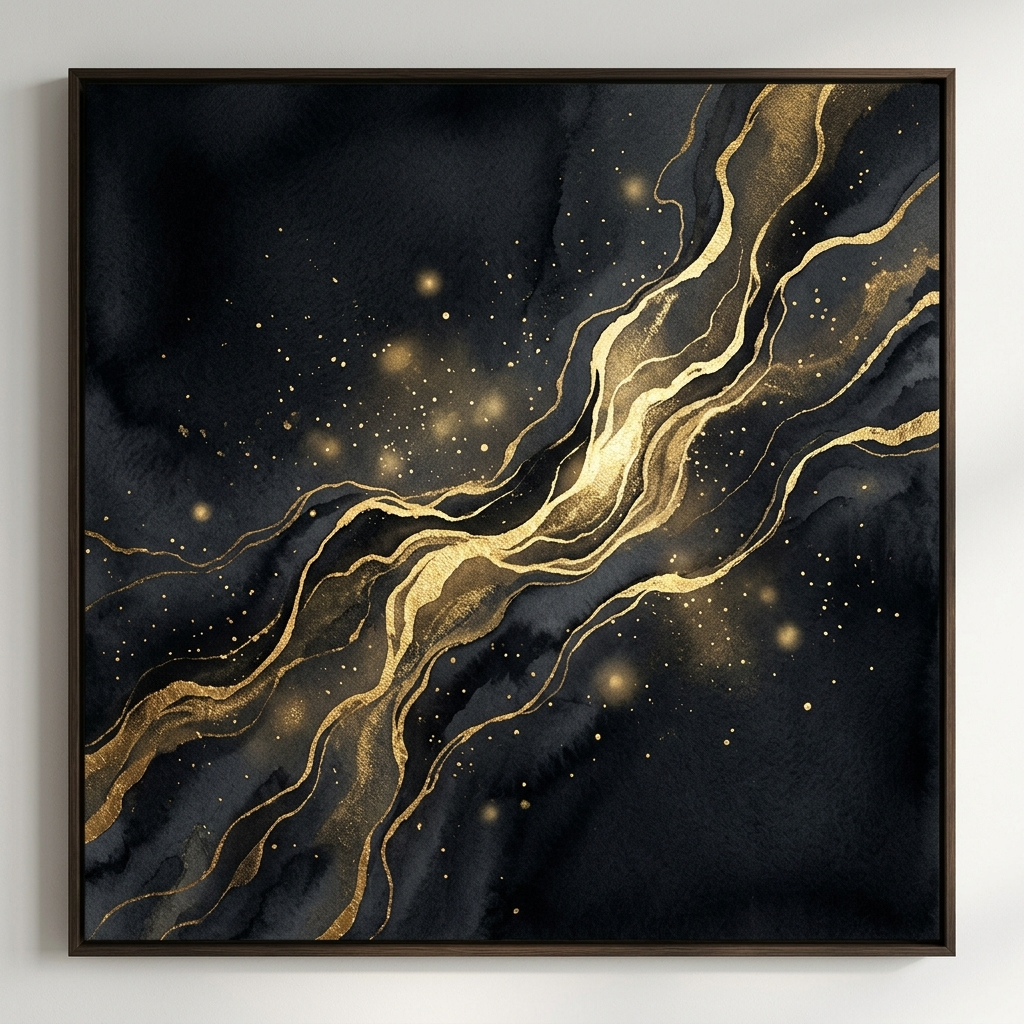
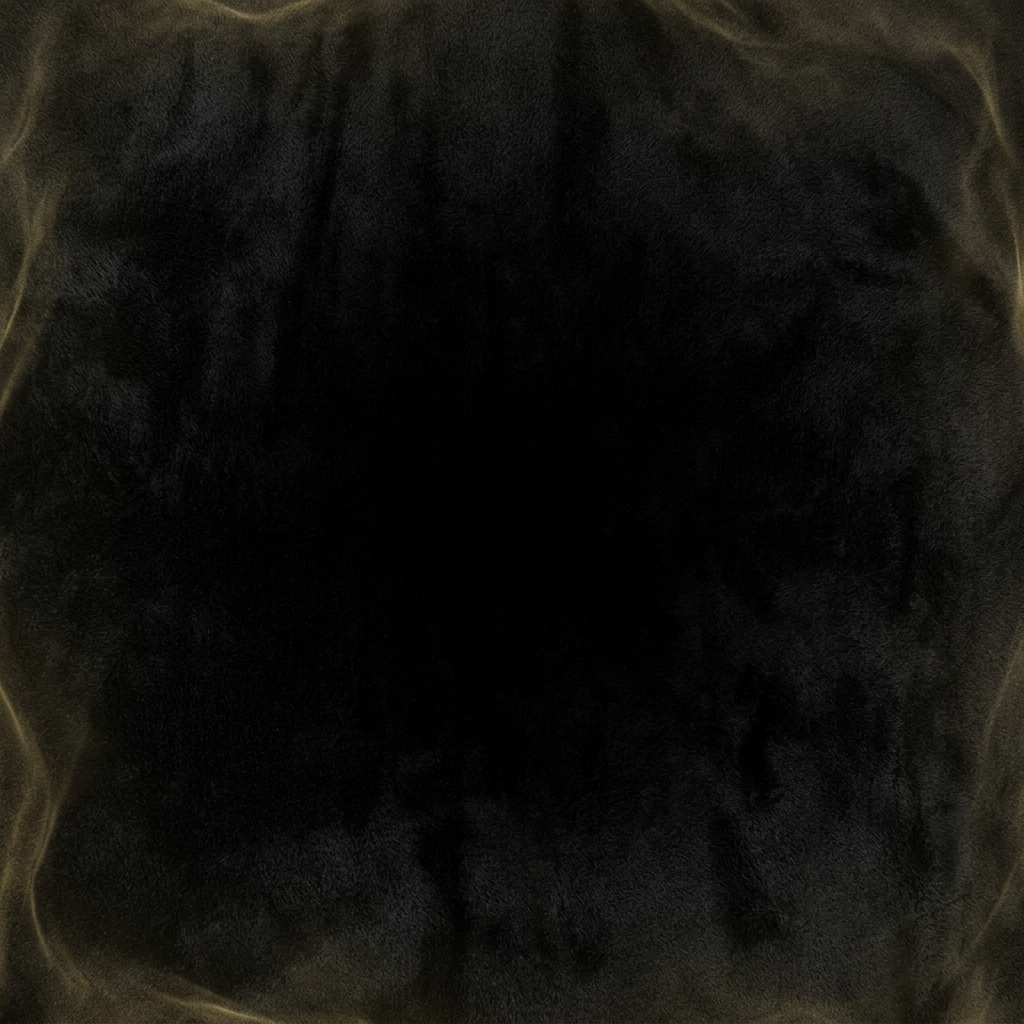
feat: implement background rendering system and add thematic assets for poster generation

diff --git a/poster/BackgroundSystem.js b/poster/BackgroundSystem.js
@@ -131,7 +131,7 @@ export class BackgroundSystem {
 
         } else if (theme.id === 'paradise-spring') {
             // Try loading/drawing the beautiful watercolor background image
-            const bgImg = BackgroundSystem.getThemeImage('poster/paradise-spring-bg.jpg');
+            const bgImg = BackgroundSystem.getThemeImage('poster/paradise-spring-bg.png');
             if (bgImg.isLoaded) {
                 BackgroundSystem.drawImageCover(ctx, bgImg, width, height);
             } else {
@@ -278,7 +278,7 @@ export class BackgroundSystem {
 
         } else if (theme.id === 'paradise-spring') {
             // Overlapping misty watercolor hills at the bottom (only as fallback if image is not loaded)
-            const bgImg = BackgroundSystem.imageCache['poster/paradise-spring-bg.jpg'];
+            const bgImg = BackgroundSystem.imageCache['poster/paradise-spring-bg.png'];
             const isImgLoaded = bgImg && bgImg.isLoaded;
             if (!isImgLoaded) {
                 this.drawWatercolorHills(ctx, width, height, scale, time);
@@ -441,7 +441,7 @@ export class BackgroundSystem {
 
         } else if (theme.id === 'paradise-spring') {
             // Only draw procedural fallback foliage if background image is not loaded
-            const bgImg = BackgroundSystem.imageCache['poster/paradise-spring-bg.jpg'];
+            const bgImg = BackgroundSystem.imageCache['poster/paradise-spring-bg.png'];
             const isImgLoaded = bgImg && bgImg.isLoaded;
             if (!isImgLoaded) {
                 // 1. Primary main branch Top-Left

diff --git a/poster/PosterEngine.js b/poster/PosterEngine.js
@@ -14,7 +14,7 @@ import { BackgroundSystem } from './BackgroundSystem.js';
 export class PosterEngine {
     constructor() {
         // Pre-cache premium background images in the background
-        BackgroundSystem.getThemeImage('poster/paradise-spring-bg.jpg');
+        BackgroundSystem.getThemeImage('poster/paradise-spring-bg.png');
         BackgroundSystem.getThemeImage('poster/night-serenity-bg.png');
         BackgroundSystem.getThemeImage('poster/nature-serenity-bg.png');
         BackgroundSystem.getThemeImage('poster/premium-gold-bg.png');
